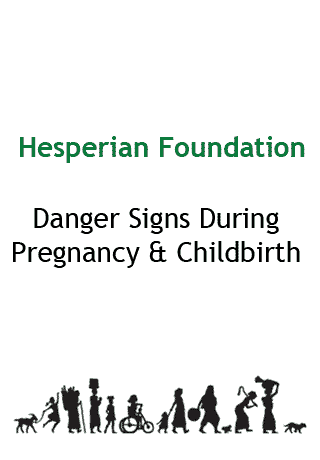
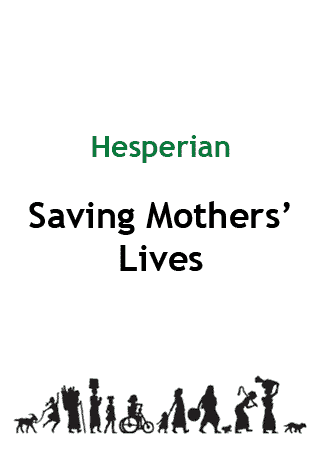
Updated app name

diff --git a/src/templates.jinja/base.page-with-sequence.html b/src/templates.jinja/base.page-with-sequence.html
@@ -7,7 +7,7 @@
 	<meta name="viewport" content="width=device-width, minimum-scale=1, maximum-scale=1, user-scalable=0" />
 	<meta name="apple-mobile-web-app-capable" content="yes" />
 
-    <title>{% block title %}Pregnancy &amp; Birth{% endblock %}</title>
+    <title>{% block title %}Saving Mothers' Lives{% endblock %}</title>
 	
 	<link rel="stylesheet" href="hesperian_mobile.css" />
 	<script src="hesperian_mobile.js"></script>
@@ -21,7 +21,7 @@
 	{% block header %}
 	<div data-role="header">
 		<a href="" class="ui-btn-left" data-icon="arrow-l" data-rel="back">Back</a>
-		<h1><a href="index.html" rel="external" data-role="button" data-direction="reverse" class="hm-home">{% block headertitle %}Pregnancy and Birth{% endblock %}</a></h1>
+		<h1><a href="index.html" rel="external" data-role="button" data-direction="reverse" class="hm-home">{% block headertitle %}Saving Mothers' Lives{% endblock %}</a></h1>
 {% include 'templates.jinja/base.page.navbar.html' %}
 		
 	</div>

diff --git a/src/templates.jinja/base.page-with-navbar.html b/src/templates.jinja/base.page-with-navbar.html
@@ -5,7 +5,7 @@
 	<meta charset="utf-8">
 	<meta name="viewport" content="width=device-width, minimum-scale=1, maximum-scale=1">
 
-    <title>{% block title %}Pregnancy &amp; Birth{% endblock %}</title>
+    <title>{% block title %}Saving Mothers' Lives{% endblock %}</title>
 	
 	<link rel="stylesheet" href="hesperian_mobile.css" />
 	<script src="hesperian_mobile.js"></script>
@@ -20,7 +20,7 @@
 	{% block header %}
 	<div data-role="header">
 		<a href="" class="ui-btn-left" data-icon="arrow-l" data-rel="back">Back</a>
-		<h1><a href="index.html" rel="external" data-role="button" data-direction="reverse" class="hm-home">{% block headertitle %}Pregnancy and Birth{% endblock %}</a></h1>
+		<h1><a href="index.html" rel="external" data-role="button" data-direction="reverse" class="hm-home">{% block headertitle %}Saving Mothers' Lives{% endblock %}</a></h1>
 {% include 'templates.jinja/base.page.navbar.html' %}
 	</div>
 	{% endblock %}

diff --git a/src/index.html b/src/index.html
@@ -1,5 +1,6 @@
 {% extends "templates.jinja/base.index.html" %}
-{% block title %} Hesperian - Pregnancy &amp; Birth{% endblock %}
+{% block title %}Saving Mothers' Lives{% endblock %}
+{% block headertitle %}Saving Mothers' Lives{% endblock %}
 {% block id %}home{% endblock %}
 		{% block content %}
 		<ul data-role="listview">

diff --git a/src/Danger_Signs_After_Birth.html b/src/Danger_Signs_After_Birth.html
@@ -1,5 +1,4 @@
 {% extends "templates.jinja/base.page-with-navbar.html" %}
-{% block title %} Hesperian - Pregnancy &amp; Birth{% endblock %}
 {% block id %}Danger_Signs_After_Birth{% endblock %}
 		{% block content %}
 			<h2 class="hm-content-menuheading">Danger Signs<br>After Birth</h2>
